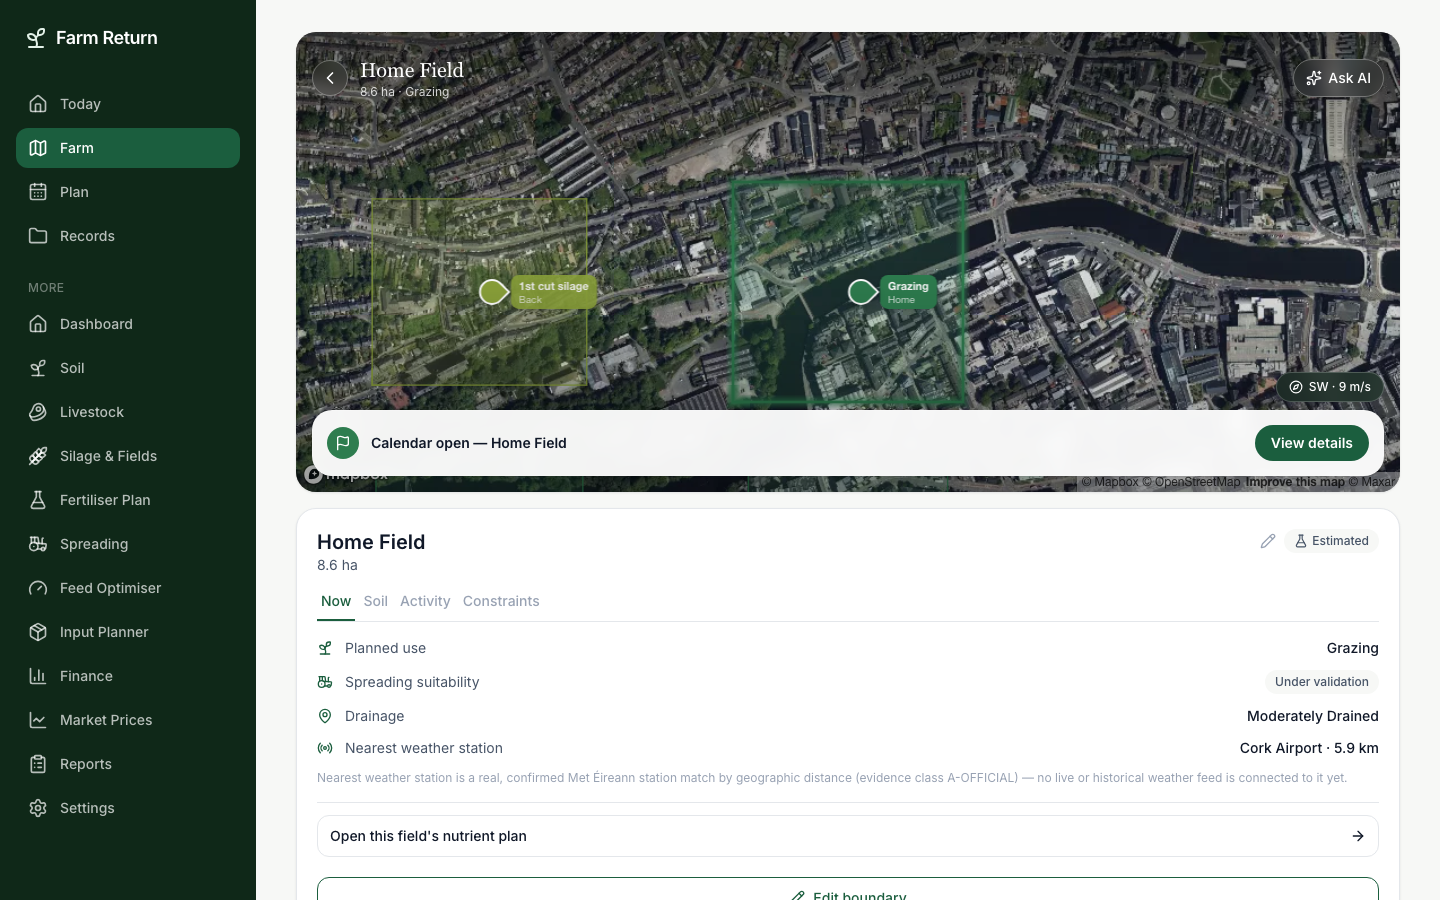
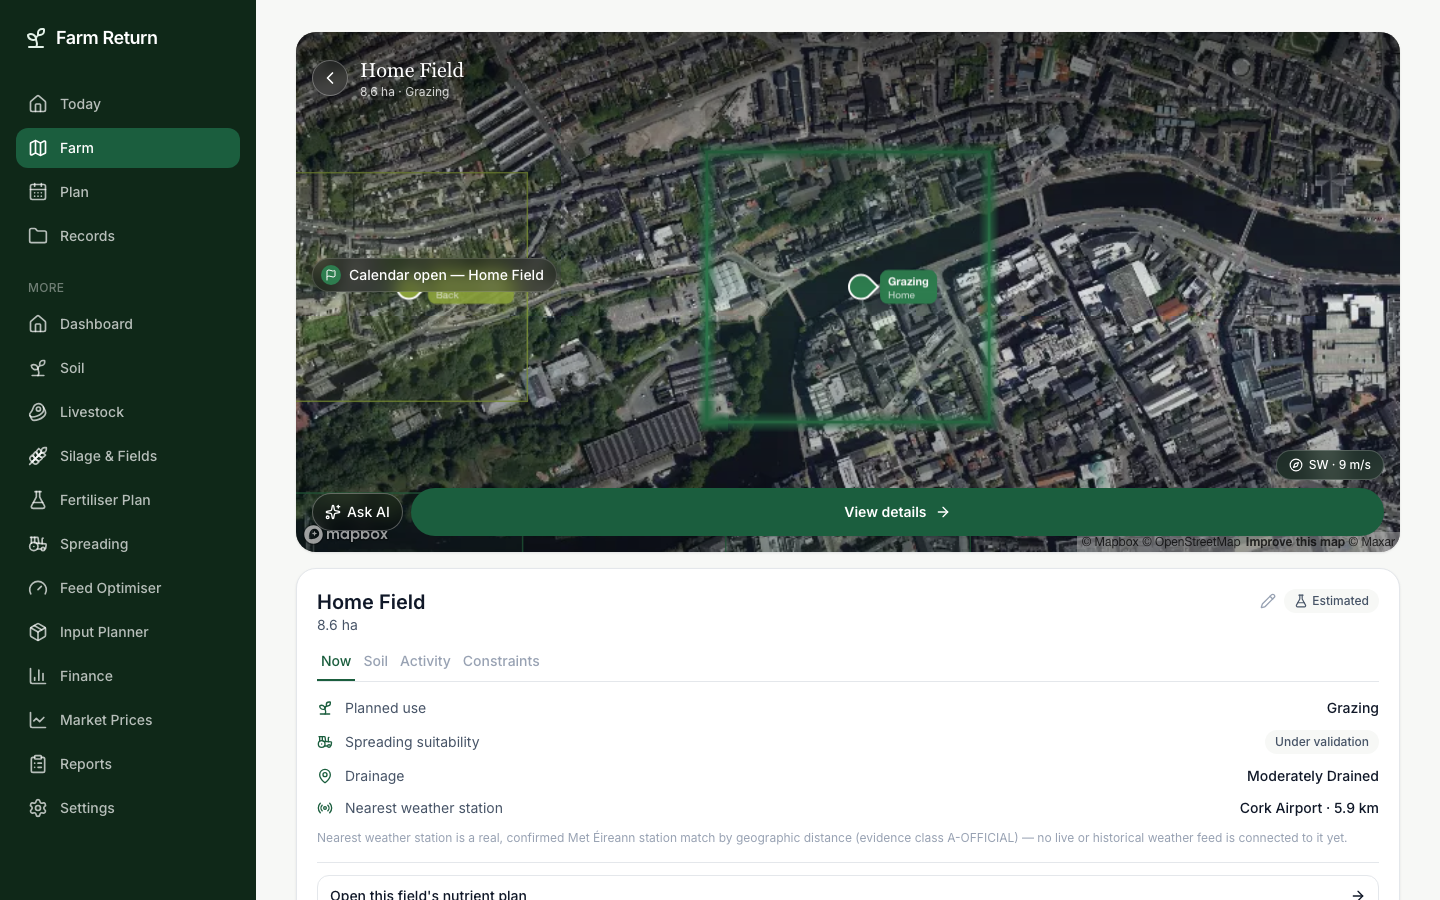
Strict Visual Reproduction round 2: structural fix on Field detail
Round 2 scored 6.2/10 REDESIGN REQUIRED against image3.png (worse than
round 1's own 7.1) with High findings that partly contradicted round
1's own fix (hero now judged too short, not dominant) plus a new set of
structural findings — applying the anti-loop rule's guidance
(oscillating hero-height finding across two rounds = a structural
problem, not something to cosmetically re-tweak):

- Hero back up to a dominant 66vh (from 52vh), but this time paired
  with a genuinely quieter header and an informational-only status
  line, so the extra height doesn't just re-import round 1's clutter.
- Header: back + name/area only — Ask AI moved out entirely (round 2:
  it "competed with the field identity in the primary header row").
- The leading-Prompt fact is now a small informational pill (no
  button), matching image3's own "Ready for fertiliser" card being a
  fact, not a control.
- Primary action rebuilt as a full-width, unmistakable button (was a
  secondary-sized pill embedded in a card) with Ask AI beside it as a
  quieter companion control, matching image3's own full-width "Plan
  job" button and the phase's bottom-positioned Ask AI direction.
- MapHero: stronger selected-field glow (wider, blurrier, more opaque)
  and a lower fill-opacity when glowSelection is on, so the luminous
  edge — not the tint — reads as the dominant selection cue; wider
  flyToPadding so real neighbouring-field pins stay visible instead of
  being cropped out by the tighter round-1 framing.
[…]

diff --git a/src/app/(app)/fields/page.tsx b/src/app/(app)/fields/page.tsx
@@ -295,13 +295,14 @@ function FieldDetailView({
   return (
     <>
       <div className="relative -mx-4 -mt-4 lg:mx-0 lg:mt-0 lg:overflow-hidden lg:rounded-fr-card lg:shadow-fr-card">
-        {/* Codex audit round 1 (Strict Visual Reproduction, Field
-            detail): a 68vh hero pushed the whole tabbed panel below the
-            fold and left no persistent action visible. Shorter (52vh),
-            with the real primary action now living inside the hero's
-            own bottom cluster (guaranteed visible, matching the
-            reference's own always-visible "Plan job" button) instead of
-            requiring a scroll to reach it. */}
+        {/* Codex audit round 2 (Strict Visual Reproduction, Field
+            detail): round 1's 52vh hero, while it did keep the primary
+            action on screen, read as "only roughly the upper half" next
+            to image3's dominant, nearly-full aerial field. Taller again
+            (66vh) — but this time the header stays quiet (Ask AI moved
+            out, see below) and the status text is a small informational
+            line, not a card, so the extra height doesn't just re-import
+            round 1's clutter. */}
         <MapHero
           fields={allFields}
           getTone={(f) => (f.plannedUse ? landUseTone(f.plannedUse.value) : "neutral")}
@@ -309,16 +310,19 @@ function FieldDetailView({
           selectedFieldId={field.id}
           onSelectField={onSelectField}
           flyToSelection
-          flyToPadding={{ top: 150, bottom: 90, left: 40, right: 40 }}
+          flyToPadding={{ top: 120, bottom: 130, left: 70, right: 70 }}
           glowSelection
           center={field.centroid}
           plain
-          className="h-[52vh] min-h-[400px] lg:h-[460px]"
+          className="h-[66vh] min-h-[480px] lg:h-[520px]"
         >
           <div className="absolute inset-0 z-10 flex flex-col justify-between bg-gradient-to-b from-black/50 via-transparent to-black/35 p-4 pt-[max(env(safe-area-inset-top),1.5rem)]">
-            {/* Header — left-aligned name/area beside Back (Codex audit
-                round 1: the reference never centres the field identity
-                between two icon buttons), Ask AI trailing. */}
+            {/* Header — back + left-aligned name/area only. Codex audit
+                round 2: a trailing Ask AI pill "competed with the field
+                identity in the primary header row" next to image3's own
+                quiet header; Ask AI now sits beside the primary action
+                below instead, where the phase's own bottom-positioned
+                Ask AI direction already puts it on Today. */}
             <div className="flex items-center gap-3">
               <button
                 type="button"
@@ -335,50 +339,59 @@ function FieldDetailView({
                   {field.plannedUse ? ` · ${landUseLabel(field.plannedUse.value)}` : ""}
                 </p>
               </div>
-              <AskAIButton
-                context={askAIContext}
-                className="shrink-0 border-white/30 bg-transparent px-3 text-white backdrop-blur-sm"
-              />
             </div>
 
-            {/* Bottom cluster — real wind, then the real primary action
-                (leading Prompt's "View details", or the nutrient-plan
-                link when this field has no real leading Prompt right
-                now) — always visible within the hero, not below the
-                fold. */}
+            {/* Informational status line — image3's own "Ready for
+                fertiliser" card is a fact, not a button; the button
+                lives in its own full-width control below. */}
+            {leadingPrompt ? (
+              <div className="flex items-center gap-2 self-start rounded-full border border-white/15 bg-black/30 py-1.5 pl-2 pr-3 backdrop-blur-sm">
+                <span
+                  className="flex size-5 shrink-0 items-center justify-center rounded-full"
+                  style={{
+                    backgroundColor: promptTone === "risk" ? "#C0362C" : promptTone === "attention" ? "#D98324" : "#2E7D4F",
+                  }}
+                >
+                  <Flag className="size-3 text-white" />
+                </span>
+                <p className="truncate text-sm font-medium text-white">{leadingPrompt.title}</p>
+              </div>
+            ) : null}
+
+            {/* Bottom cluster — real wind, then a persistent, unmistakable
+                full-width primary action (Codex audit round 2: a small
+                pill embedded in a card read as secondary next to
+                image3's own full-width "Plan job" control), Ask AI as a
+                quieter companion beside it rather than in the header. */}
             <div className="flex flex-col gap-2">
               <div className="flex justify-end">
                 <FieldWindChip centroid={field.centroid} />
               </div>
 
-              {leadingPrompt ? (
-                <div className="flex items-center gap-3 rounded-fr-card border border-white/15 bg-fr-surface/95 p-3.5 shadow-fr-card backdrop-blur-sm">
-                  <span
-                    className="flex size-8 shrink-0 items-center justify-center rounded-full"
-                    style={{
-                      backgroundColor: promptTone === "risk" ? "#C0362C" : promptTone === "attention" ? "#D98324" : "#2E7D4F",
-                    }}
-                  >
-                    <Flag className="size-4 text-white" />
-                  </span>
-                  <p className="min-w-0 flex-1 truncate text-sm font-semibold text-fr-ink-900">{leadingPrompt.title}</p>
+              <div className="flex items-center gap-2">
+                <AskAIButton
+                  context={askAIContext}
+                  className="shrink-0 border-white/30 bg-black/30 px-3 text-white backdrop-blur-sm"
+                />
+                {leadingPrompt ? (
                   <button
                     type="button"
                     onClick={onViewPromptDetails}
-                    className="shrink-0 rounded-full bg-fr-green-700 px-4 py-2 text-sm font-semibold text-white"
+                    className="flex flex-1 items-center justify-center gap-2 rounded-full bg-fr-green-700 px-5 py-3.5 text-sm font-semibold text-white shadow-fr-card"
                   >
                     View details
+                    <ArrowRight className="size-4" />
                   </button>
-                </div>
-              ) : (
-                <Link
-                  href={`/nutrients?field=${field.id}`}
-                  className="flex items-center justify-between rounded-fr-card border border-white/15 bg-fr-surface/95 p-3.5 text-sm font-semibold text-fr-ink-900 shadow-fr-card backdrop-blur-sm"
-                >
-                  Open this field&apos;s nutrient plan
-                  <ArrowRight className="size-4" />
-                </Link>
-              )}
+                ) : (
+                  <Link
+                    href={`/nutrients?field=${field.id}`}
+                    className="flex flex-1 items-center justify-center gap-2 rounded-full bg-fr-green-700 px-5 py-3.5 text-sm font-semibold text-white shadow-fr-card"
+                  >
+                    Open this field&apos;s nutrient plan
+                    <ArrowRight className="size-4" />
+                  </Link>
+                )}
+              </div>
             </div>
           </div>
         </MapHero>

diff --git a/src/components/farm/MapHero.tsx b/src/components/farm/MapHero.tsx
@@ -221,7 +221,12 @@ export function MapHero({
           // Codex audit round 5 (Phase V1): boundaries should be visually
           // subordinate to the pin markers now carrying the real place/
           // status information — a faint tint rather than a strong fill.
-          "fill-opacity": 0.2,
+          // Strict Visual Reproduction round 2 (Field detail, image3.png):
+          // with glowSelection on, drop the tint further still so the
+          // glowing edge itself — not the fill — reads as the dominant
+          // selection cue, matching the reference's crisp luminous
+          // outline over an otherwise untinted field.
+          "fill-opacity": glowSelection ? 0.1 : 0.2,
         },
       });
       // Strict Visual Reproduction phase (Field detail, image3.png): the
@@ -245,9 +250,12 @@ export function MapHero({
               ...Object.entries(toneColor).flatMap(([tone, color]) => [tone, color]),
               "#ffffff",
             ],
-            "line-width": ["case", ["==", ["get", "fieldId"], selectedFieldIdRef.current ?? ""], 14, 0],
-            "line-blur": 6,
-            "line-opacity": ["case", ["==", ["get", "fieldId"], selectedFieldIdRef.current ?? ""], 0.65, 0],
+            // Codex audit round 2 (Strict Visual Reproduction, Field
+            // detail): the glow read as "subdued" next to image3's crisp
+            // luminous edge — wider, blurrier and more opaque.
+            "line-width": ["case", ["==", ["get", "fieldId"], selectedFieldIdRef.current ?? ""], 20, 0],
+            "line-blur": 10,
+            "line-opacity": ["case", ["==", ["get", "fieldId"], selectedFieldIdRef.current ?? ""], 0.85, 0],
           },
         });
       }
@@ -323,19 +331,20 @@ export function MapHero({
       ]);
     }
     if (map.getLayer("fr-field-fill")) {
-      map.setPaintProperty("fr-field-fill", "fill-opacity", [
-        "case",
-        ["==", ["get", "fieldId"], selectedFieldId ?? ""],
-        0.34,
-        0.16,
-      ]);
+      map.setPaintProperty(
+        "fr-field-fill",
+        "fill-opacity",
+        glowSelection
+          ? ["case", ["==", ["get", "fieldId"], selectedFieldId ?? ""], 0.14, 0.1]
+          : ["case", ["==", ["get", "fieldId"], selectedFieldId ?? ""], 0.34, 0.16],
+      );
     }
     if (map.getLayer("fr-field-glow")) {
-      map.setPaintProperty("fr-field-glow", "line-width", ["case", ["==", ["get", "fieldId"], selectedFieldId ?? ""], 14, 0]);
+      map.setPaintProperty("fr-field-glow", "line-width", ["case", ["==", ["get", "fieldId"], selectedFieldId ?? ""], 20, 0]);
       map.setPaintProperty("fr-field-glow", "line-opacity", [
         "case",
         ["==", ["get", "fieldId"], selectedFieldId ?? ""],
-        0.65,
+        0.85,
         0,
       ]);
     }
@@ -428,7 +437,7 @@ export function MapHero({
       return new mapboxgl.Marker({ element: el, anchor: "left" }).setLngLat(field.centroid).addTo(map);
     });
     // eslint-disable-next-line react-hooks/exhaustive-deps -- getTone/onSelectField are inline closures from the caller; re-running per render (rather than gating on a stable identity) is the correct behaviour here, not a bug — it's what keeps a Prompt-driven tone change reflected immediately.
-  }, [fields, selectedFieldId]);
+  }, [fields, selectedFieldId, glowSelection]);
 
   // Codex audit round 1 (Phase V2, Farm/Field exploration): real
   // tap-to-select needs a real camera response, not just a list/drawer
